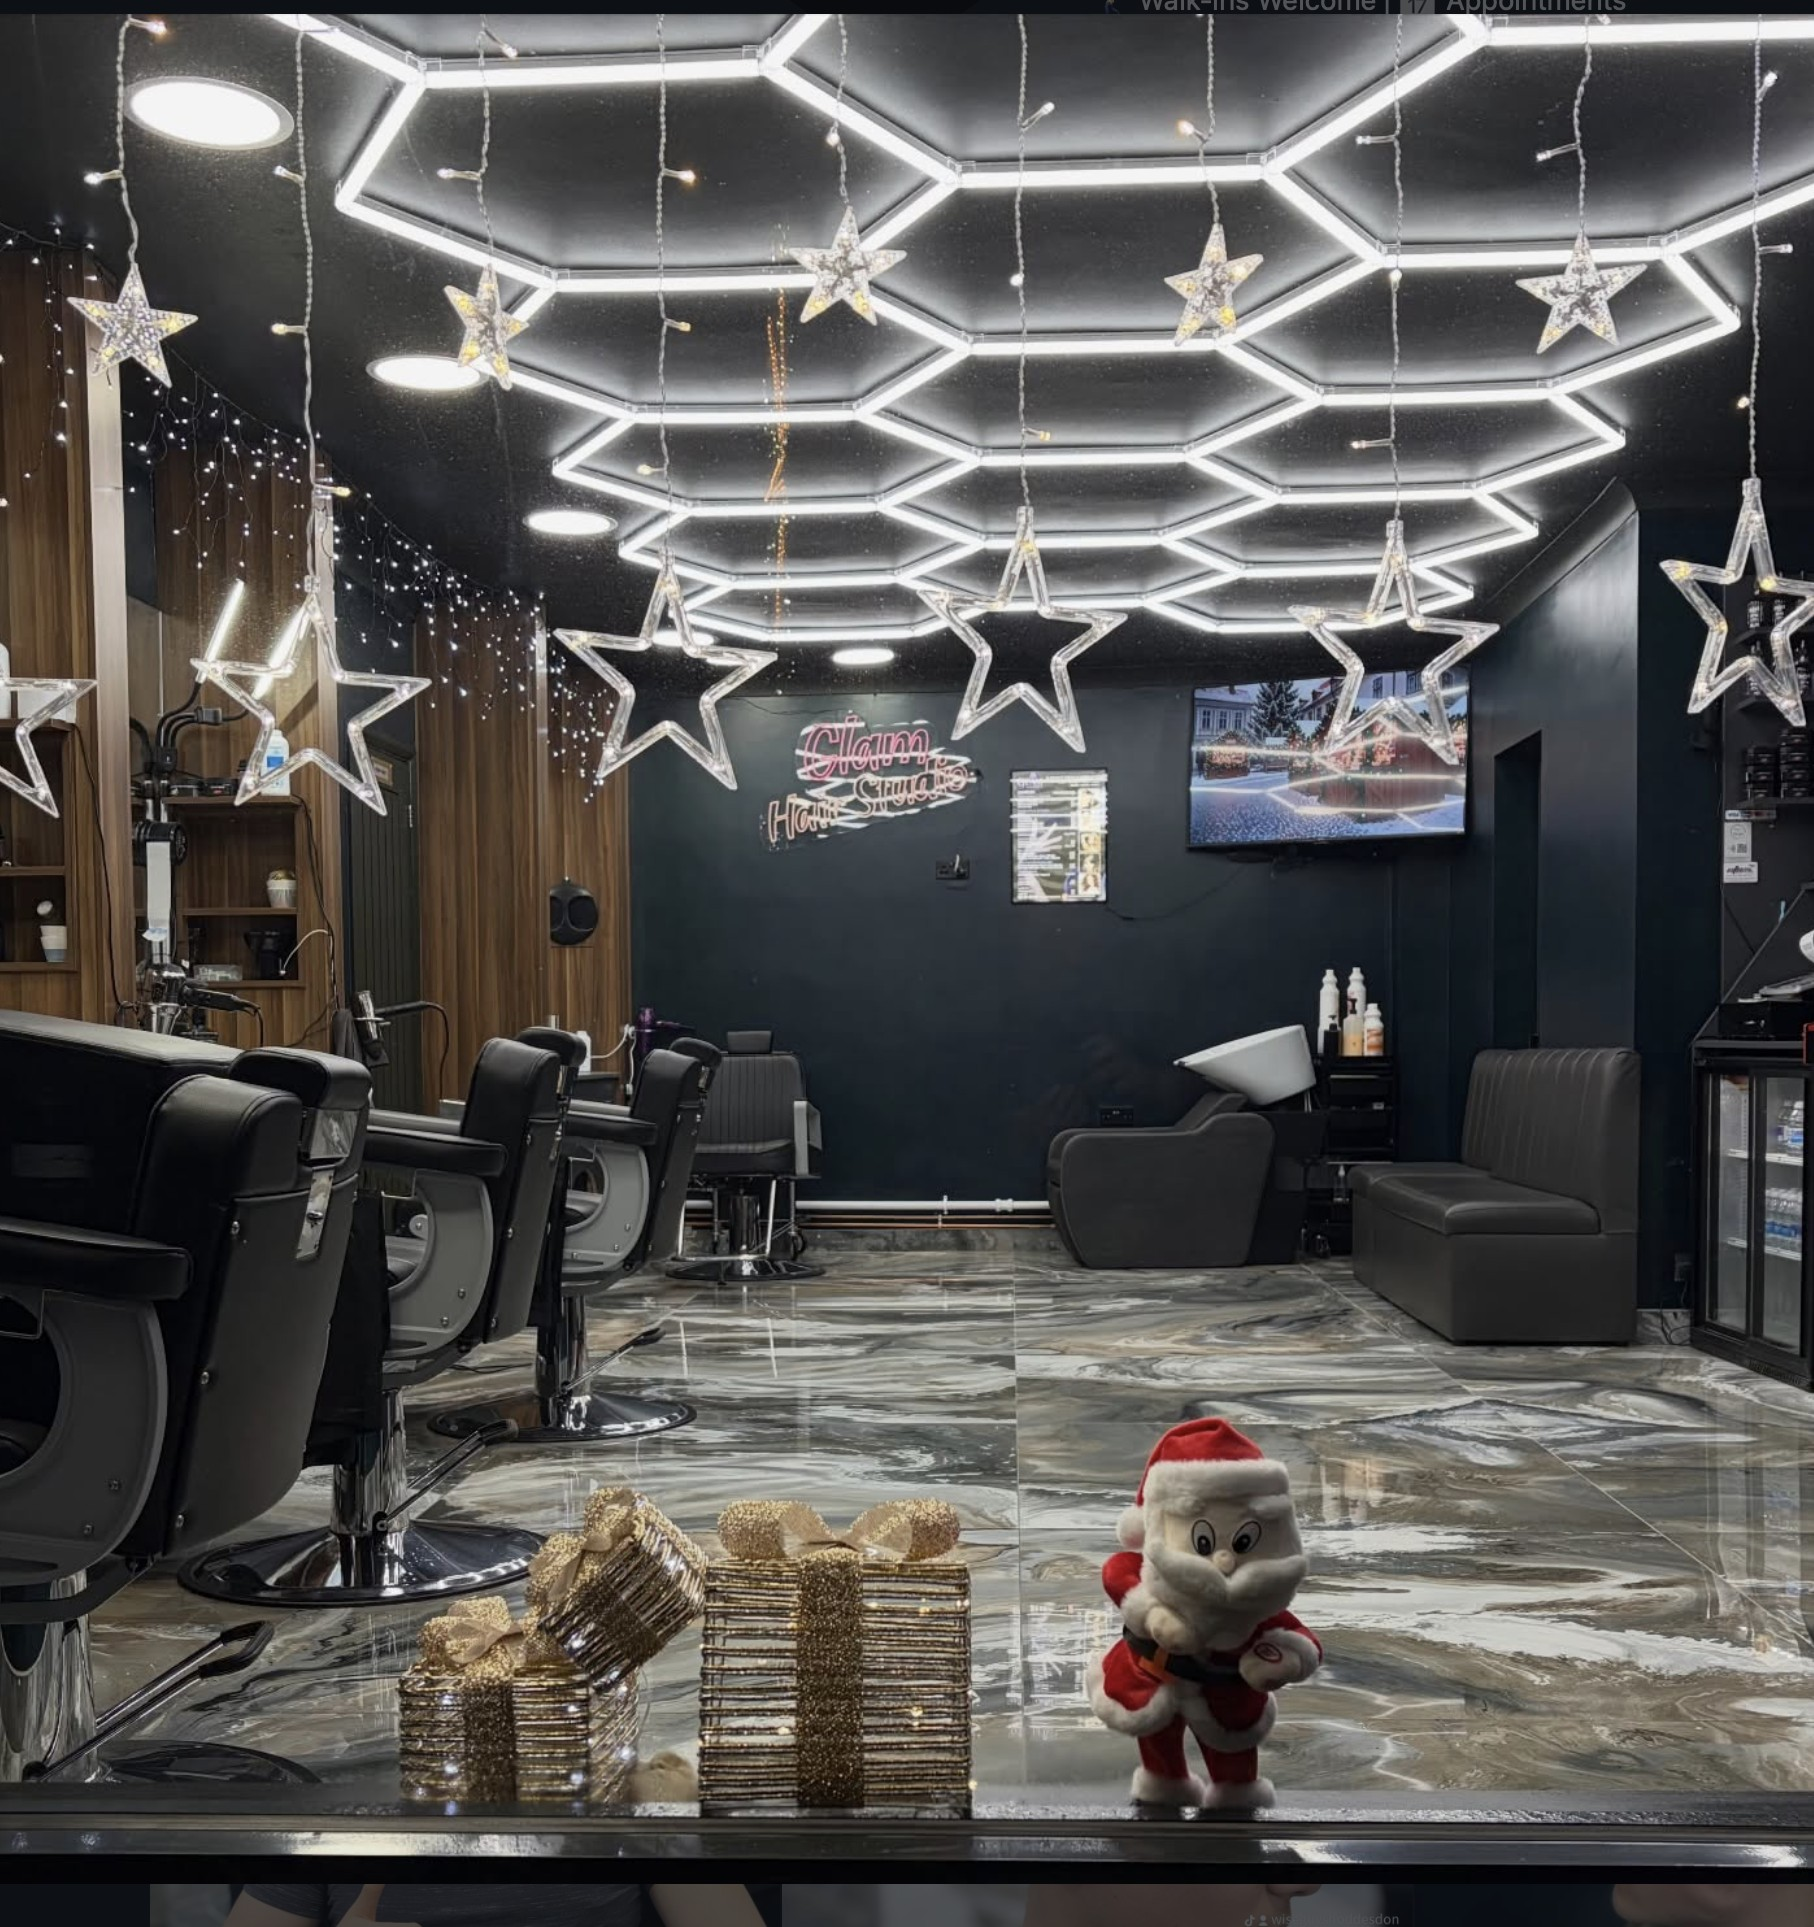
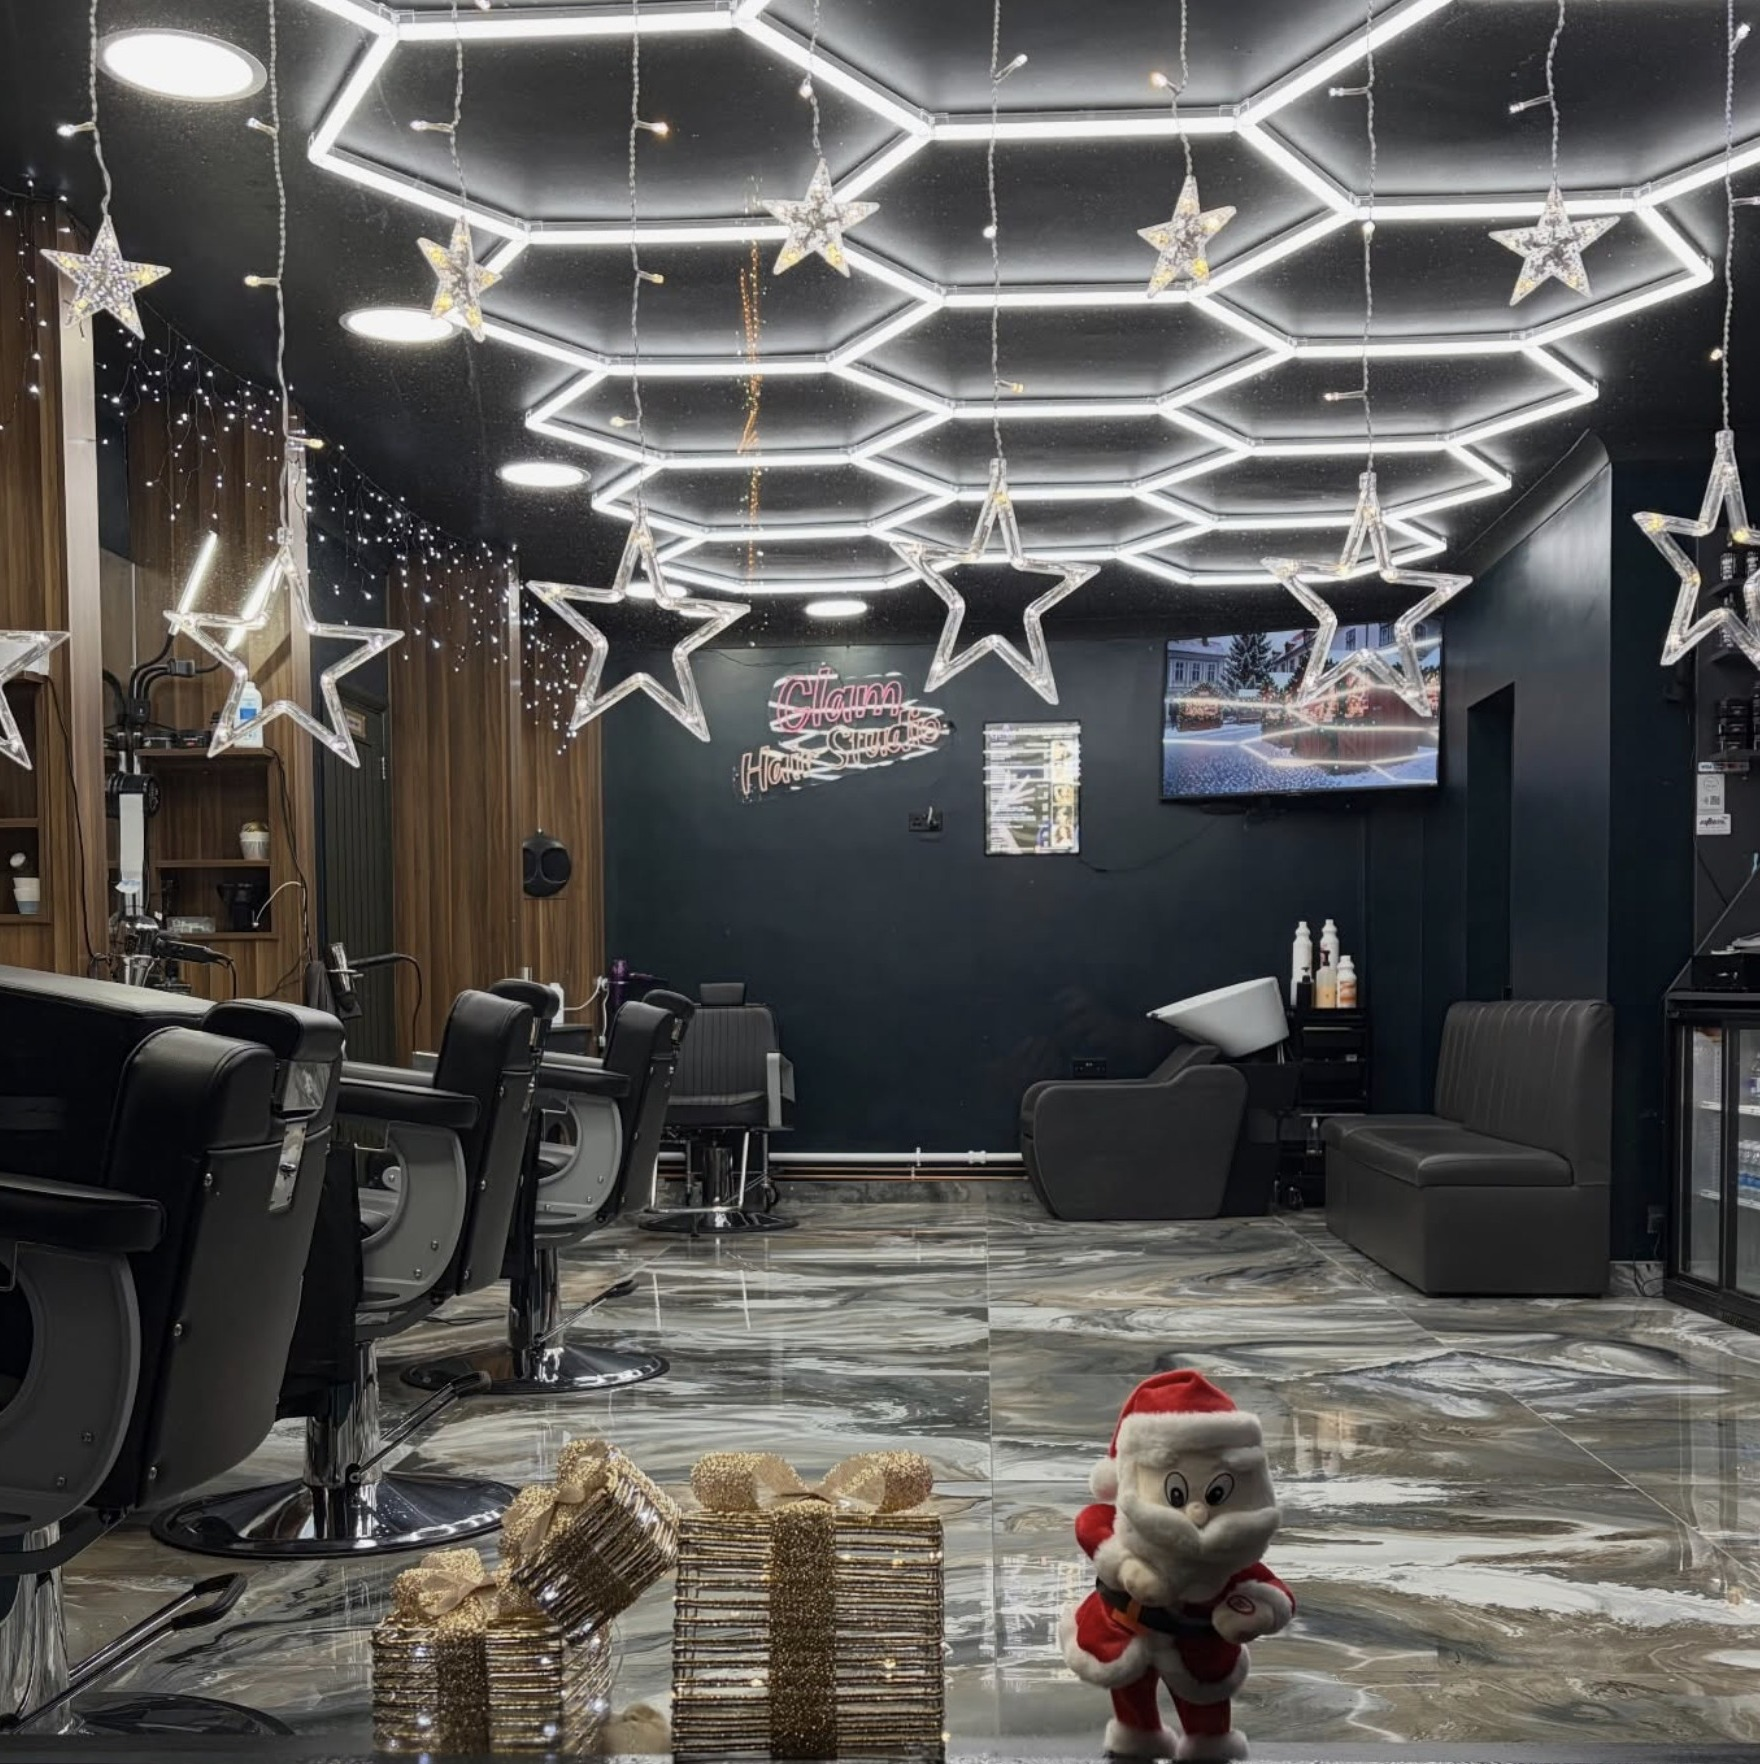
Clean up gallery photos — remove all Instagram/TikTok UI artifacts
- Cropped top 2.5% from all photos (removed "Walk-ins Welcome" text bar)
- Cropped bottom 6% from all photos (removed profile icons, dots, username bars)
- Cropped edges to remove carousel arrows
- Painted over embedded TikTok watermark on cut-02
- Removed cut-01 (Easter poster) and cut-18 (perms sign) — not haircut photos
- Updated gallery.ts to remove deleted photo entry

diff --git a/lib/gallery.ts b/lib/gallery.ts
@@ -21,7 +21,6 @@ export const galleryImages: GalleryImage[] = [
   { src: "/gallery/cut-15.jpg", alt: "Mid fade with beard trim", category: "Beards" },
   { src: "/gallery/cut-16.jpg", alt: "Perm and fade combination", category: "Perms" },
   { src: "/gallery/cut-17.jpg", alt: "Perm rods in progress", category: "Perms" },
-  { src: "/gallery/cut-18.jpg", alt: "Perms sign at Wise Guys", category: "Shop" },
   { src: "/gallery/cut-19.jpg", alt: "Clean buzz cut fade", category: "Fades" },
   { src: "/gallery/cut-20.jpg", alt: "Fresh textured fade", category: "Fades" },
 ];
